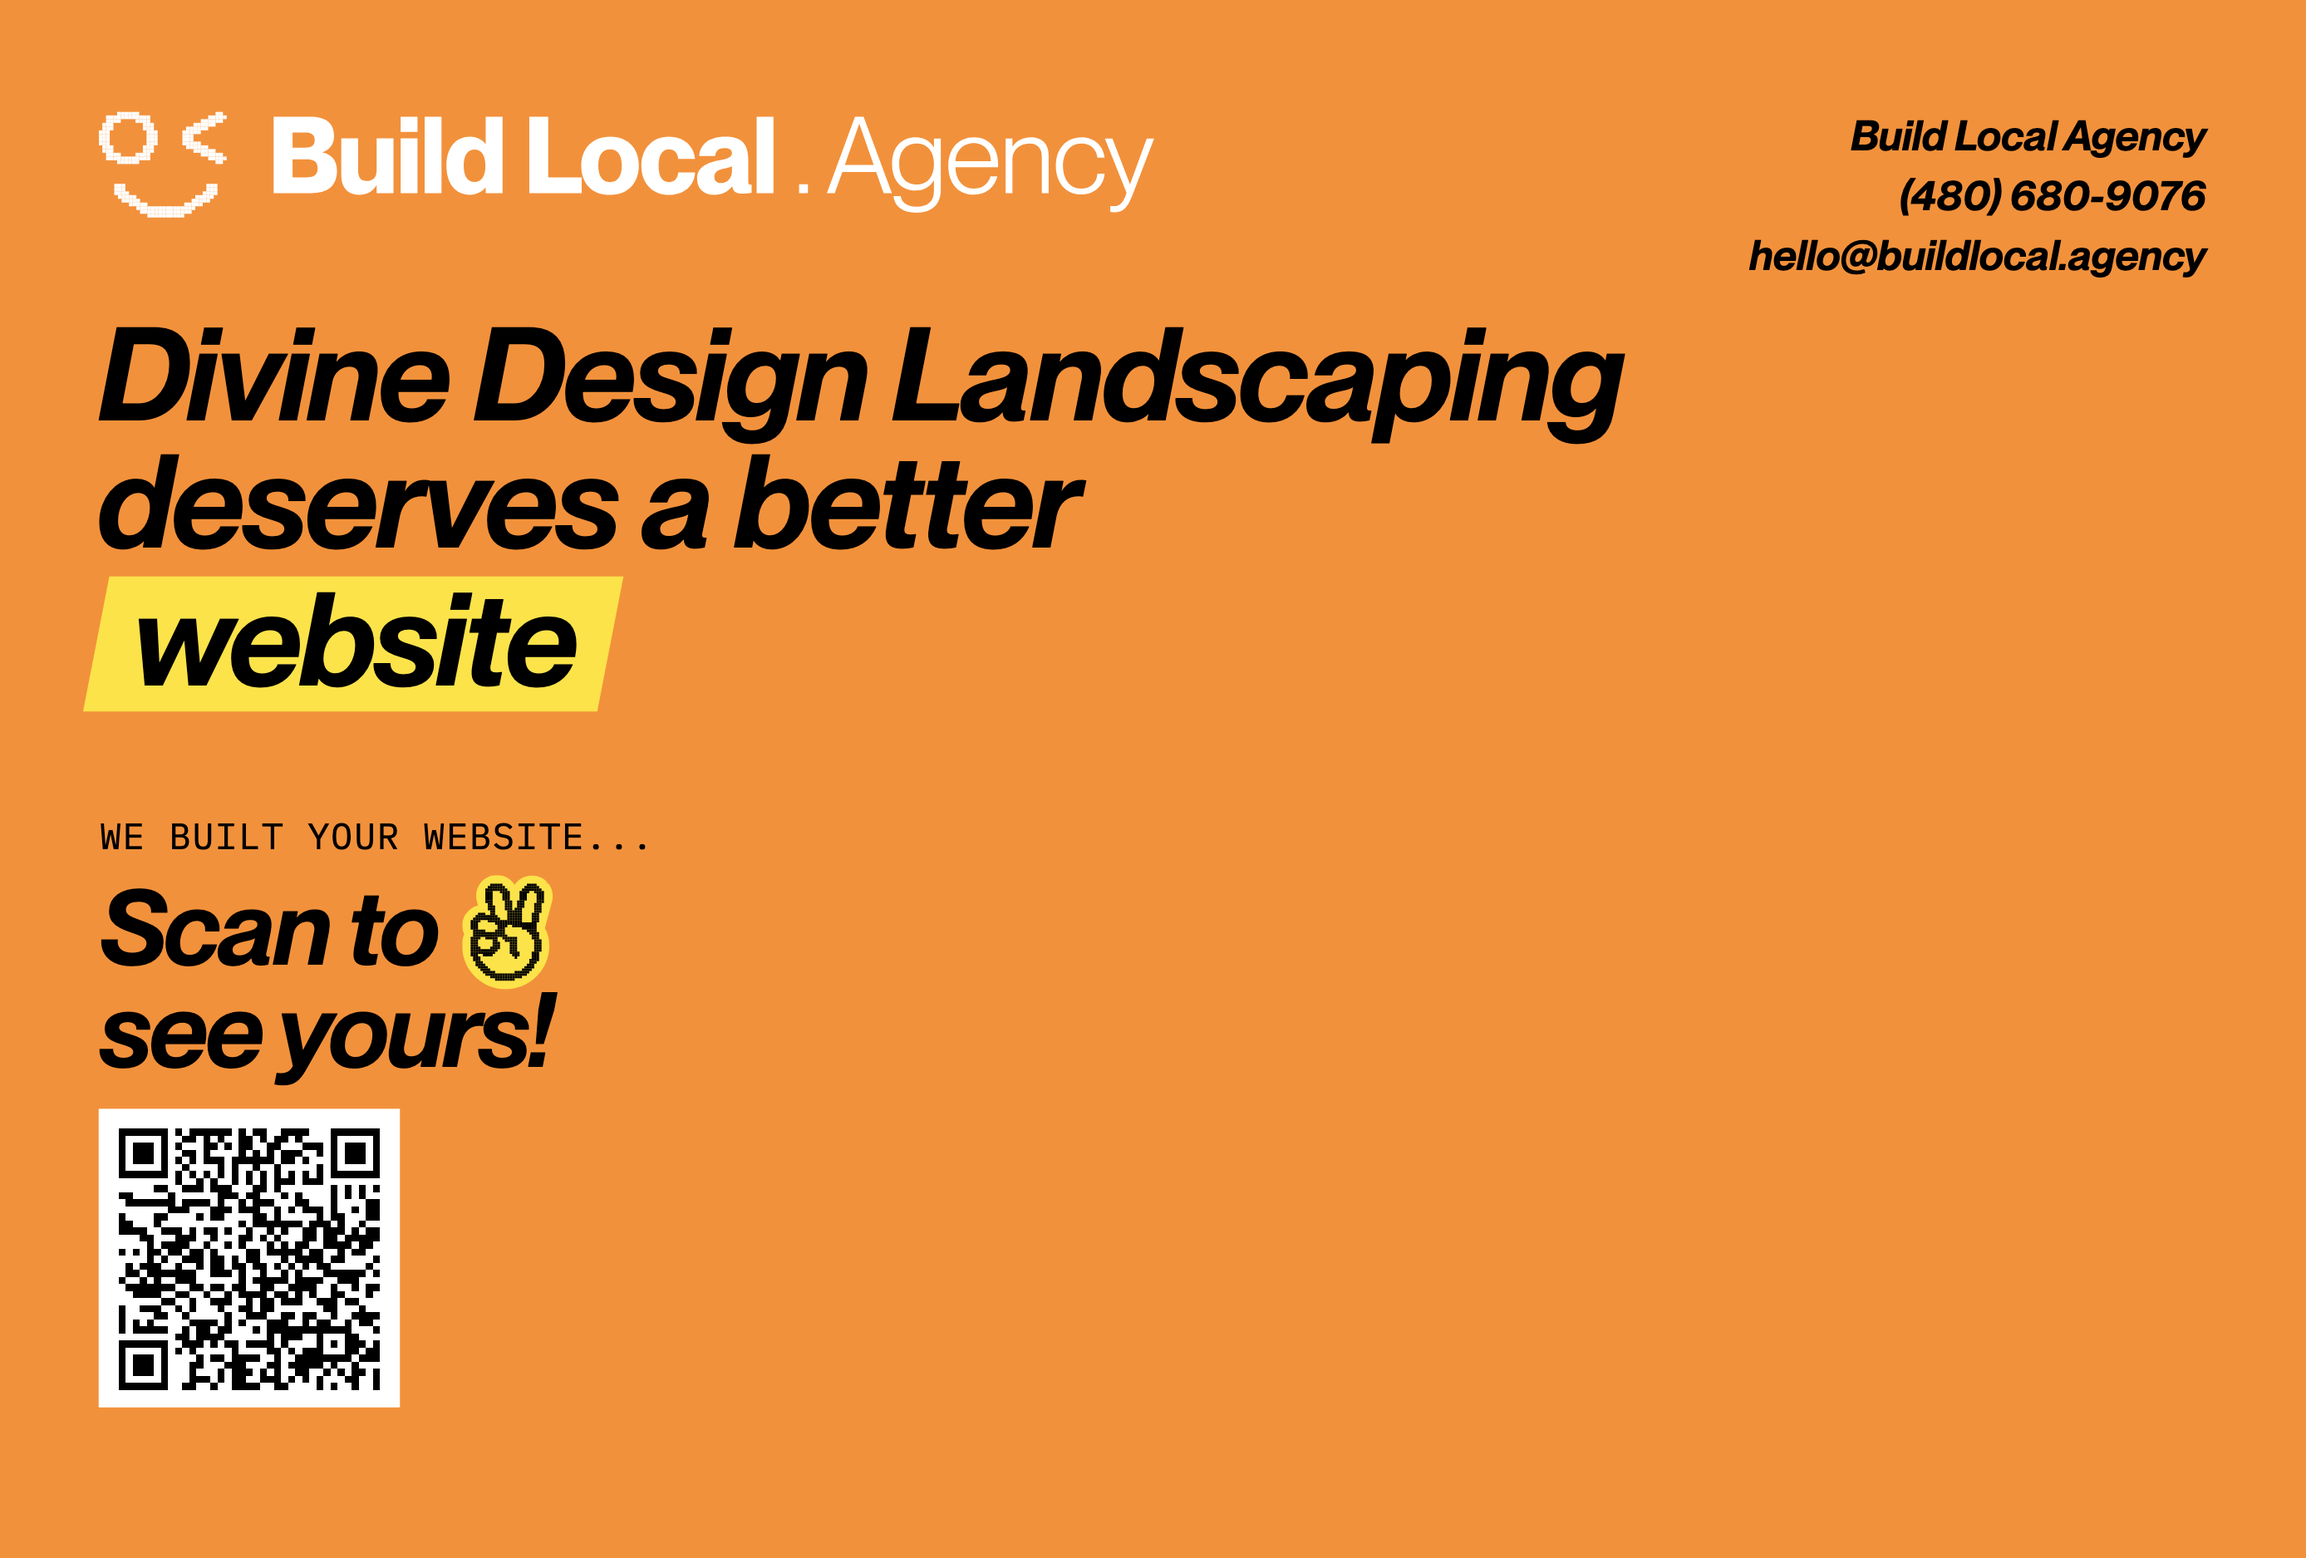
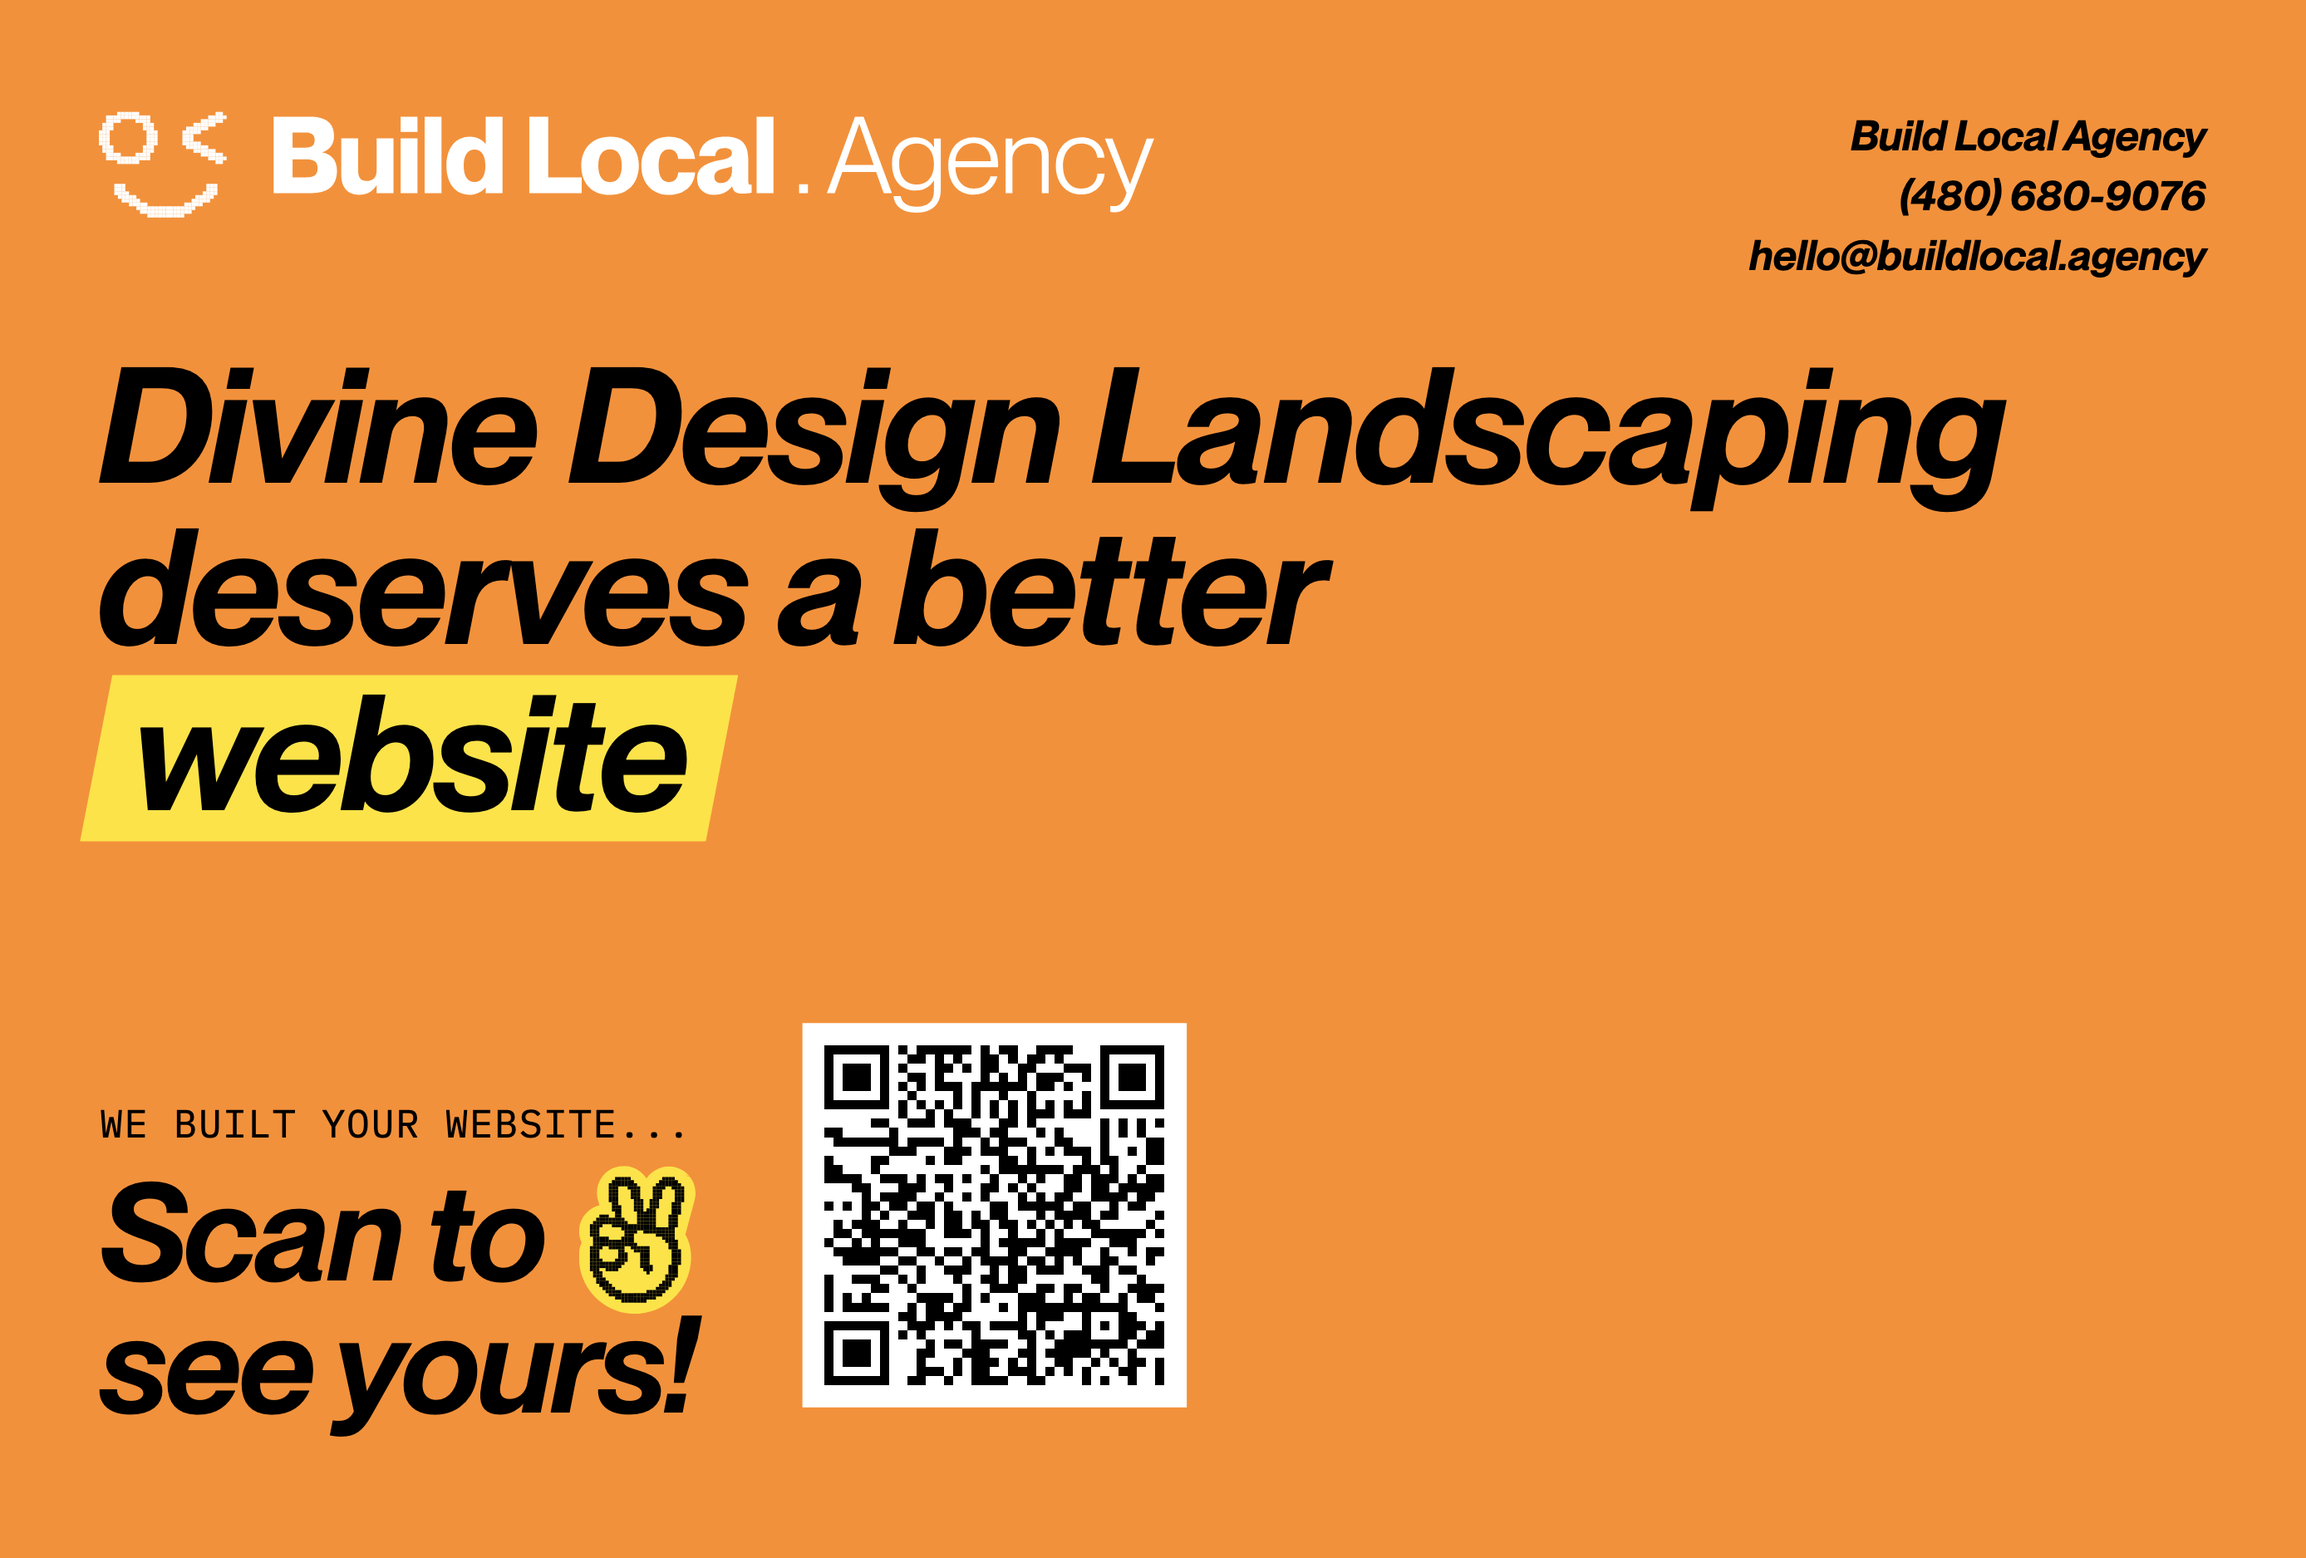
Flyer front: revert to bigger-heading/QR-right layout (white box no longer needed, Lob applies its own)

Changed region(s): [[0.031, 0.1856, 0.8677, 0.928], [0.3409, 0.6496, 0.5268, 0.928]]

diff --git a/flyer/front.html b/flyer/front.html
@@ -25,26 +25,25 @@
   .contact { position: absolute; right: 0; top: 0.04in; text-align: right; font-style: italic; font-weight: 600; color: #000; font-size: 16px; line-height: 1.42; }
 
   /* --- Headline: 3 rows, ONE uniform size (scales down only for long names) --- */
-  .headline { position: absolute; left: -1px; top: 0.85in; font-style: italic; font-weight: 600; color: #000; letter-spacing: -1px; font-size: {{headline_font}}px; line-height: 0.99; }
+  .headline { position: absolute; left: -1px; top: 1.0in; font-style: italic; font-weight: 600; color: #000; letter-spacing: -1px; font-size: {{headline_font}}px; line-height: 0.99; }
   .headline .row { display: block; white-space: nowrap; }
   /* highlighted "website" — yellow angled box (parallelogram); text keeps the same italic lean as the rows above */
   .headline .hl { display: inline-block; position: relative; padding: 0 0.14in 0.03in; margin-top: 0.03in; }
   .headline .hl:before { content:''; position:absolute; inset:0; background:#FCE34A; transform: skewX(-11deg); z-index:-1; }
 
-  /* --- Scan CTA (lower-left, above the QR) --- */
-  .cta { position: absolute; left: 0; bottom: 1.55in; width: 3.3in; }
-  .cta .kicker { font-family:'IBM Plex Mono', monospace; font-weight:400; font-size:14px; letter-spacing:0.5px; text-transform:uppercase; color:#000; margin-bottom:0.06in; }
-  .cta .big { font-style: italic; font-weight: 600; font-size: 40px; line-height: 0.8; color:#000; letter-spacing:-1px; }
-  .cta .peace { display:inline-flex; align-items:center; vertical-align:-0.1in; margin:0 0.03in; }
-  .cta .peace img { height:0.46in; display:block; }
+  /* --- Scan CTA bottom-left --- */
+  .cta { position: absolute; left: 0; bottom: 0.16in; width: 2.95in; }
+  .cta .kicker { font-family:'IBM Plex Mono', monospace; font-weight:400; font-size:15px; letter-spacing:0.5px; text-transform:uppercase; color:#000; margin-bottom:0.07in; }
+  .cta .big { font-style: italic; font-weight: 600; font-size: 52px; line-height: 0.77; color:#000; letter-spacing:-1px; }
+  .cta .peace { display:inline-flex; align-items:center; vertical-align:-0.14in; margin:0 0.04in; }
+  .cta .peace img { height:0.6in; display:block; }
 
-  /* QR — stacked directly UNDER the CTA text, left-aligned */
-  .qr { position: absolute; left: 0; bottom: 0.2in; width: 1.2in; height: 1.2in; background:#fff; padding:0.05in; }
+  /* QR — centered in the lane between the CTA text and the ink-free zone, with
+     equal orange margin on both sides (CTA ends ~2.95in, ink-free starts 4.975in) */
+  .qr { position: absolute; left: 2.815in; bottom: 0.2in; width: 1.55in; height: 1.55in; background:#fff; padding:0.06in; }
   .qr img { width:100%; height:100%; display:block; }
 
-  /* NOTE: no white address box baked in — Lob applies its own address/postage
-     block automatically. The left-column content is positioned to stay clear of
-     Lob's lower-right address zone. */
+  /* NOTE: no white address box baked in — Lob applies its own address/postage block. */
 </style>
 </head>
 <body>
